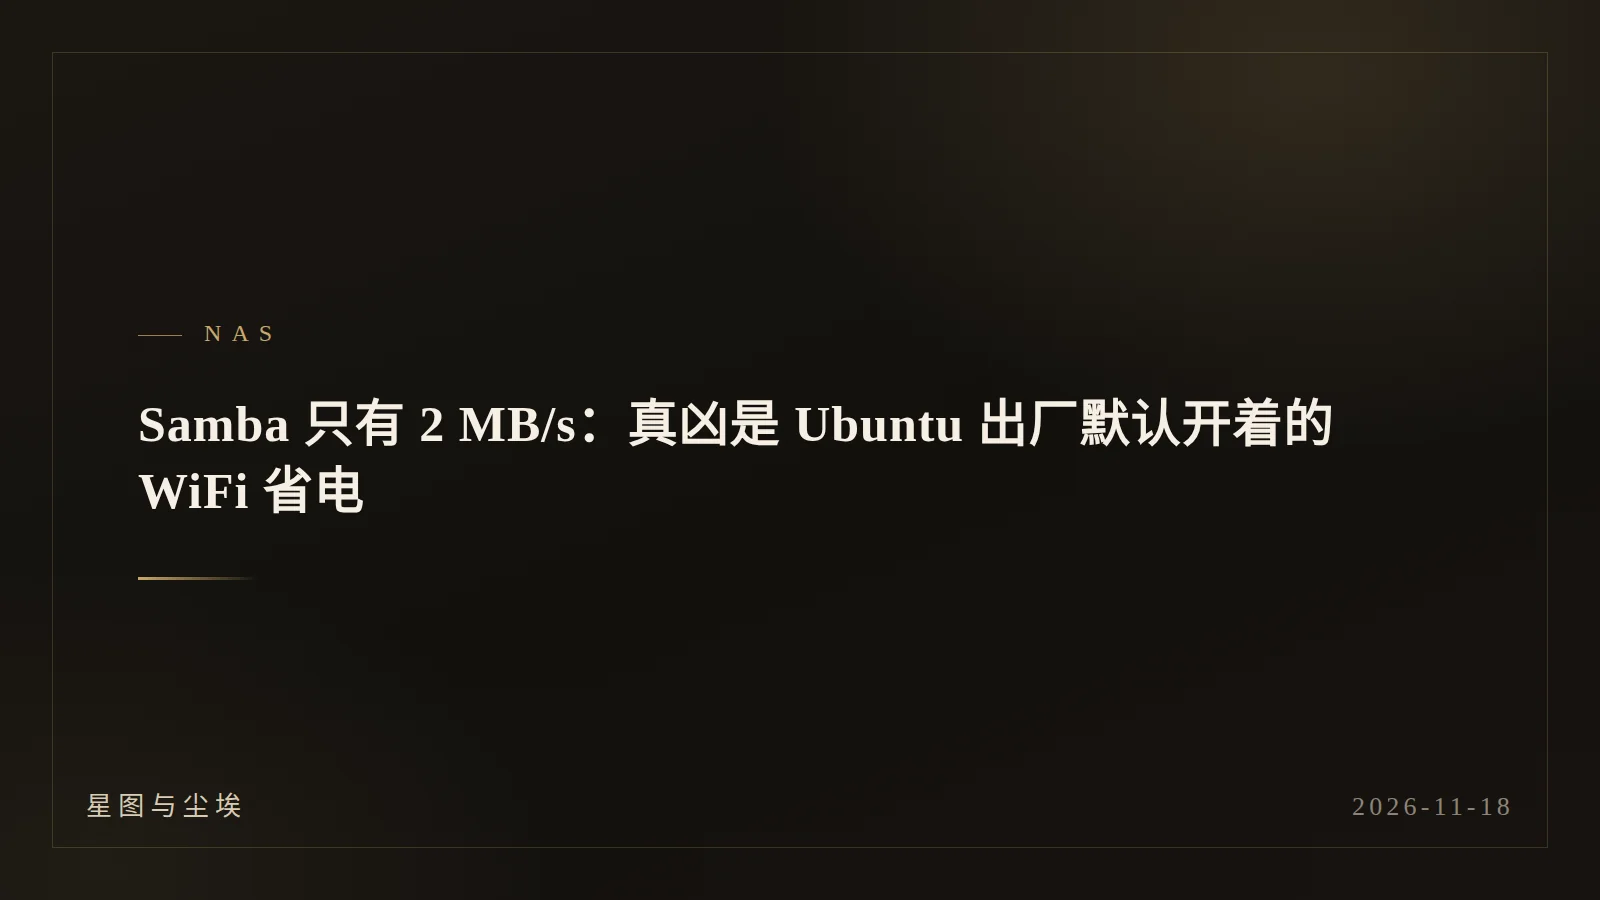
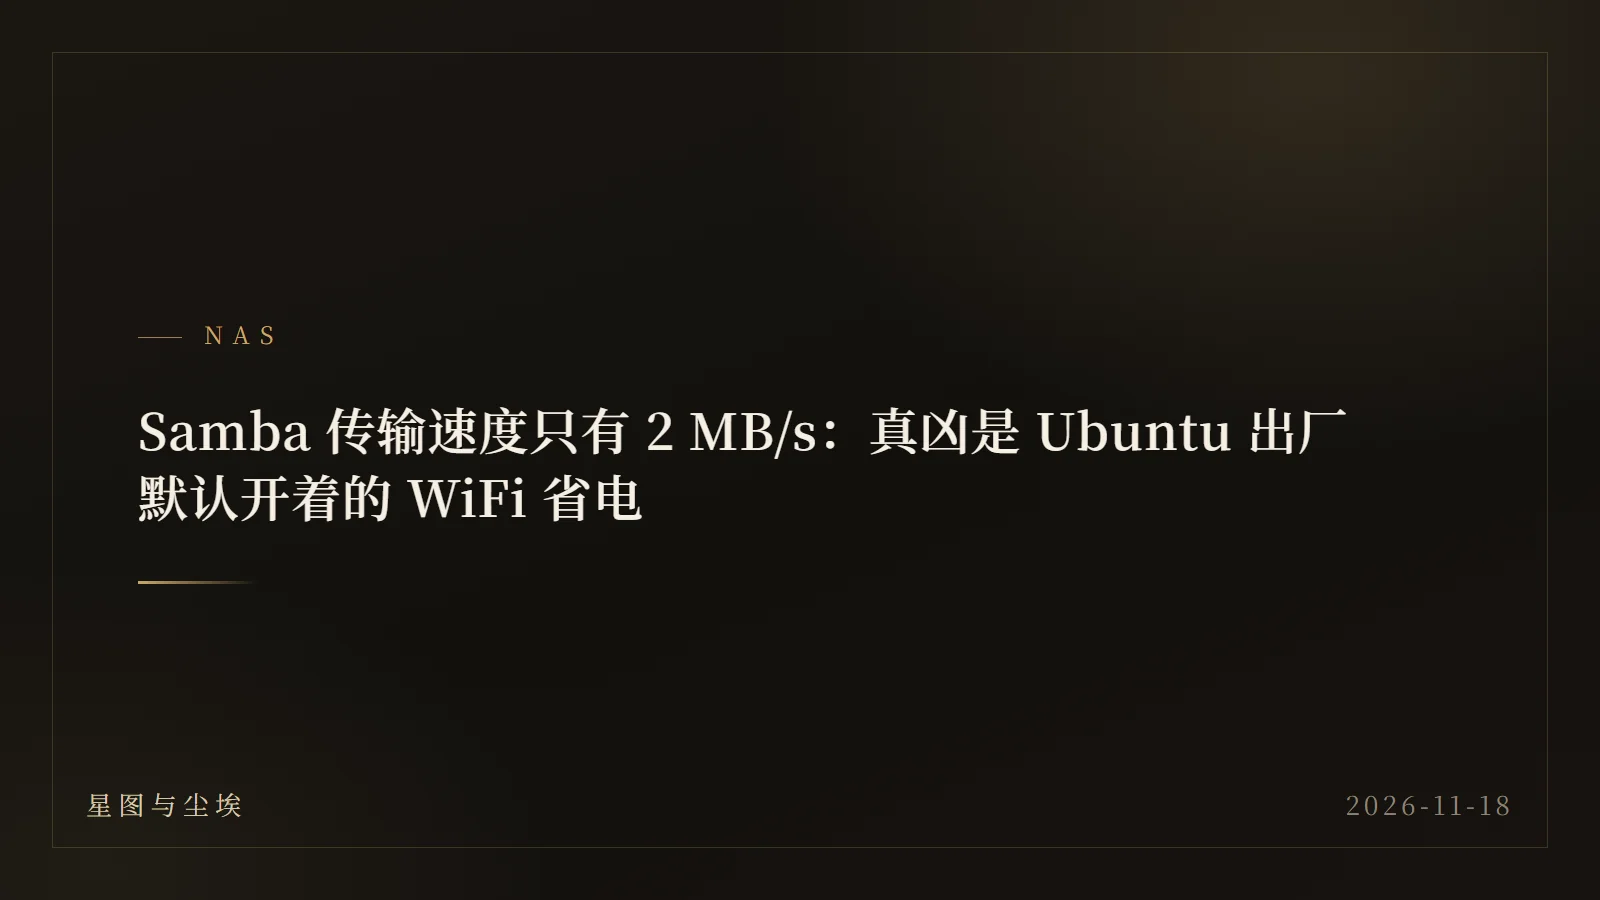
content: samba 那篇标题写清传输速度，并重画封面

diff --git a/content/posts/life/samba-2mbps-wifi-powersave/index.md b/content/posts/life/samba-2mbps-wifi-powersave/index.md
@@ -1,5 +1,5 @@
 +++
-title = 'Samba 只有 2 MB/s：真凶是 Ubuntu 出厂默认开着的 WiFi 省电'
+title = 'Samba 传输速度只有 2 MB/s：真凶是 Ubuntu 出厂默认开着的 WiFi 省电'
 description = "客户端 ping 网关 1 ms、ping 服务器 90 ms。从这一个 RTT 反推带宽，挖到 /etc/NetworkManager/conf.d 里一个没人改过的默认值。"
 subtitle = "从 2 MB/s 到 30 MB/s"
 date = 2026-11-18T15:40:00+08:00
